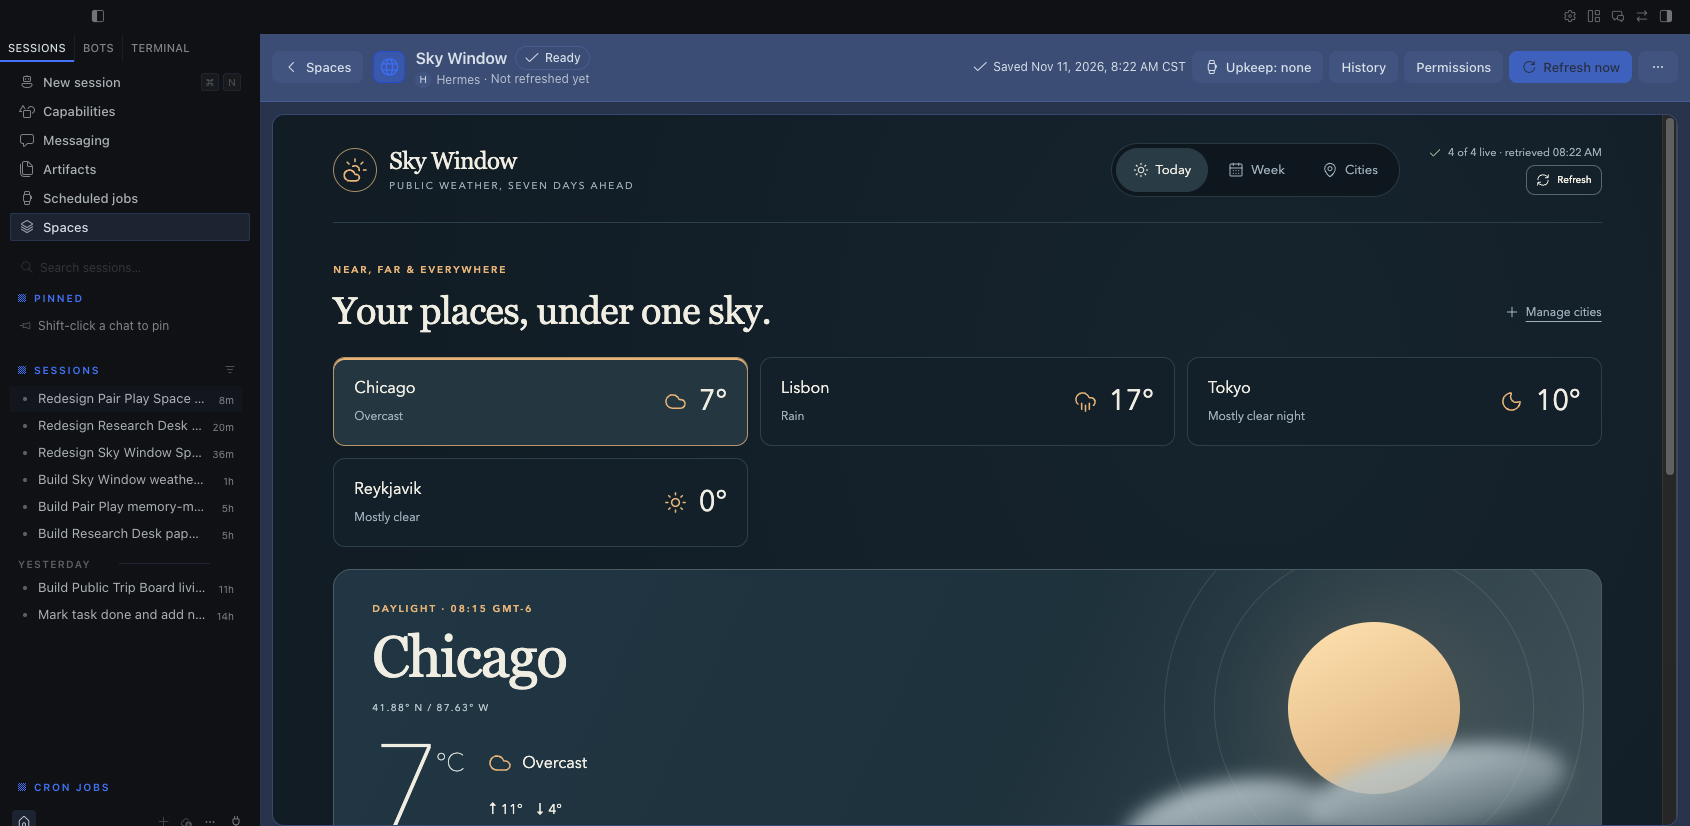
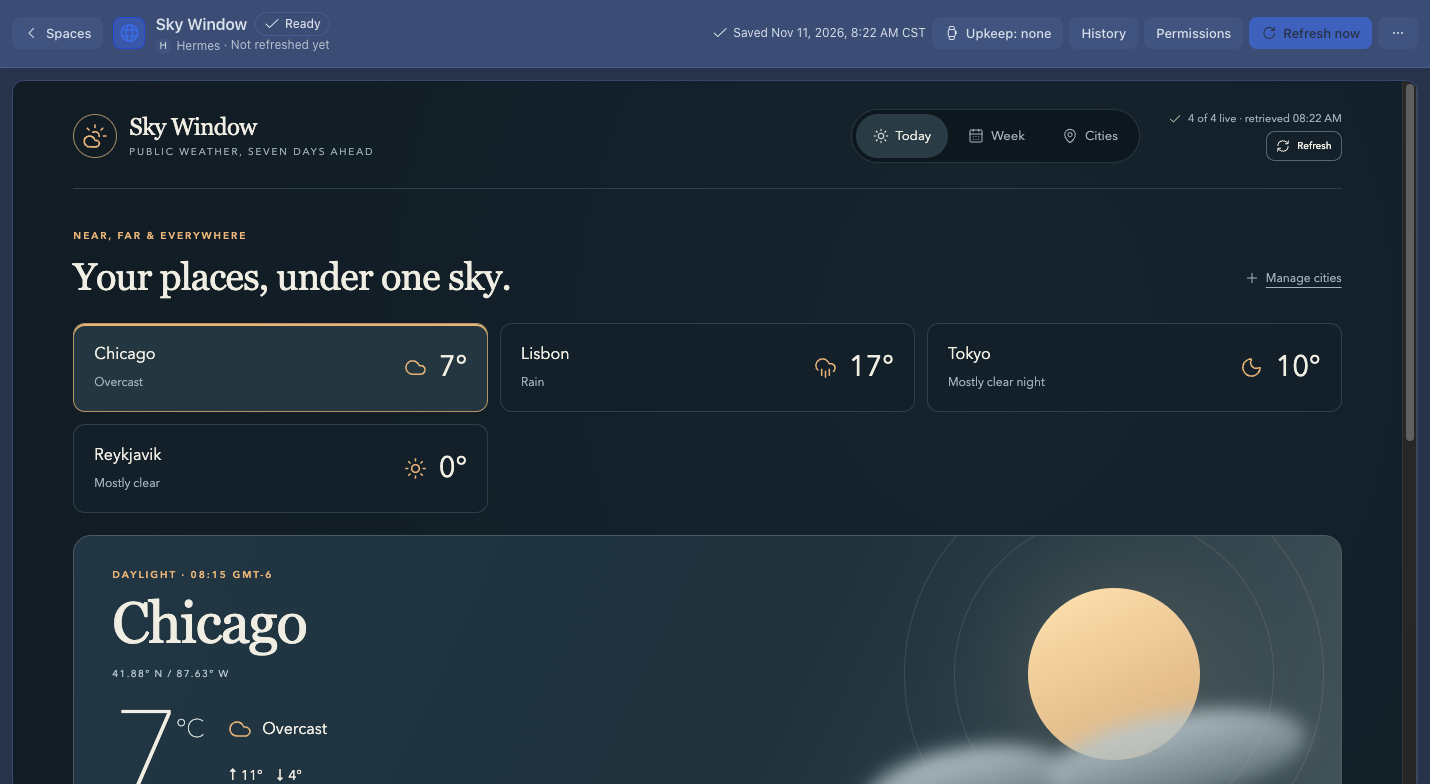
docs(premium-pass): attempt 4 complete — three Spaces regenerated on gpt-6-astra, independent live functional verification, captures and manifest

diff --git a/docs/design/premium-pass/regeneration/astra-run/drivers/regen.py b/docs/design/premium-pass/regeneration/astra-run/drivers/regen.py
@@ -1,0 +1,76 @@
+"""Submit one exact prompt via a NEW ordinary Desktop chat session (native input), record route + before store.
+Usage: regen.py submit N   -> prints session id
+       regen.py collect N SESSION -> writes trace/after/route files (non-blocking snapshot)"""
+import sys, json, sqlite3, time, hashlib
+from pathlib import Path
+sys.path.insert(0, str(Path(__file__).parent))
+import ui
+from cdp import evaluate
+
+ROOT = Path('/Volumes/Expansion/Development/Projects/living-spaces')
+HOME = Path('/Volumes/Expansion/Development/Build/living-spaces-r1/home')
+OUT = ROOT / 'docs/design/premium-pass/regeneration/astra-run'
+OUT.mkdir(parents=True, exist_ok=True)
+ITEMS = json.loads((ROOT / 'docs/design/premium-pass/regeneration-prompts.json').read_text())['prompts']
+SLUGS = ['sky-window', 'research-desk', 'pair-play']
+
+
+def store(slug):
+    c = sqlite3.connect(f'file:{HOME}/plugin-data/living-spaces/spaces.db?mode=ro', uri=True)
+    c.row_factory = sqlite3.Row
+    out = {}
+    for t in ['spaces', 'records', 'revisions', 'grants']:
+        col = 'id' if t == 'spaces' else 'space'
+        out[t] = [dict(r) for r in c.execute(f'select * from {t} where {col}=?', (slug,))]
+    return out
+
+
+def state():
+    c = sqlite3.connect(f'file:{HOME}/state.db?mode=ro', uri=True)
+    c.row_factory = sqlite3.Row
+    return c
+
+
+def submit(n):
+    slug, prompt = SLUGS[n], ITEMS[n]['prompt']
+    (OUT / f'{slug}-before.json').write_text(json.dumps(store(slug), indent=2, default=str))
+    xy = evaluate("""(()=>{const b=[...document.querySelectorAll('button,a,[role=button]')].find(b=>/^New session/.test((b.innerText||'').trim()));const r=b.getBoundingClientRect();return [r.x+r.width/2,r.y+r.height/2]})()""")
+    ui.click(*xy)
+    time.sleep(2.5)
+    picker = evaluate("""[...document.querySelectorAll('button')].map(b=>(b.innerText||'').trim()).filter(s=>/astra|sonnet|gpt|claude|opus/i.test(s))""")
+    box = evaluate("""(()=>{const e=document.querySelector('[contenteditable=true][aria-label=Message]');e.focus();const r=e.getBoundingClientRect();return [r.x+20,r.y+r.height/2]})()""")
+    ui.click(*box)
+    t0 = time.time()
+    ui.page(lambda s: s.call('Input.insertText', text=prompt))
+    time.sleep(.6)
+    ui.key('Enter')
+    sid = None
+    for _ in range(40):
+        time.sleep(1.5)
+        r = state().execute("select session_id from messages where role='user' and content=? and timestamp>=? order by timestamp desc limit 1", (prompt, t0 - 1)).fetchone()
+        if r:
+            sid = r[0]; break
+    rec = {'space': slug, 'prompt': prompt, 'session': sid, 'submitted_at': t0, 'ui_picker_label_before_send': picker,
+           'route': 'new ordinary Desktop chat session, native CDP click/insertText/Enter on composer'}
+    (OUT / f'{slug}-submission.json').write_text(json.dumps(rec, indent=2))
+    print(json.dumps(rec, indent=2))
+
+
+def collect(n, sid):
+    slug = SLUGS[n]
+    sub = json.loads((OUT / f'{slug}-submission.json').read_text())
+    c = state()
+    s = dict(c.execute('select id,source,model,model_config,billing_provider,billing_base_url,billing_mode,started_at,ended_at,end_reason,message_count,tool_call_count,input_tokens,output_tokens,reasoning_tokens,title from sessions where id=?', (sid,)).fetchone())
+    trace = [dict(r) for r in c.execute('select role,content,tool_calls,tool_call_id,tool_name,timestamp,finish_reason from messages where session_id=? order by timestamp', (sid,))]
+    (OUT / f'{slug}-trace.json').write_text(json.dumps(trace, indent=2))
+    (OUT / f'{slug}-route.json').write_text(json.dumps({'requested': {'model': 'gpt-6-astra', 'provider': 'openai-codex', 'service_tier': 'priority'}, 'observed_session_row': s, 'ui_picker_label_before_send': sub['ui_picker_label_before_send']}, indent=2))
+    (OUT / f'{slug}-after.json').write_text(json.dumps(store(slug), indent=2, default=str))
+    last = trace[-1] if trace else {}
+    tools = [m['tool_name'] for m in trace if m['tool_name']]
+    print(json.dumps({'model': s['model'], 'provider': s['billing_provider'], 'msgs': len(trace), 'tools': tools[-12:], 'ntools': len(tools),
+                      'last_role': last.get('role'), 'finish': last.get('finish_reason'), 'last': (last.get('content') or '')[:600]}, indent=1))
+
+
+if __name__ == '__main__':
+    if sys.argv[1] == 'submit': submit(int(sys.argv[2]))
+    else: collect(int(sys.argv[2]), sys.argv[3])

diff --git a/docs/design/premium-pass/regeneration/astra-run/drivers/cap2.py b/docs/design/premium-pass/regeneration/astra-run/drivers/cap2.py
@@ -1,0 +1,33 @@
+import sys, time, json, base64
+sys.path.insert(0,'/Volumes/Expansion/Development/Projects/living-spaces/harness'); sys.path.insert(0,'.')
+import ui
+from cdp import evaluate
+from guest_realm import guest
+OUT='/Volumes/Expansion/Development/Projects/living-spaces/docs/design/premium-pass/regeneration/astra-run/shots/'
+import os; os.makedirs(OUT,exist_ok=True)
+def go(slug): evaluate(f"location.hash='#/spaces?space={slug}'"); time.sleep(7)
+def phone(on):
+    async def f(s):
+        if on: await s.call('Emulation.setDeviceMetricsOverride',width=390,height=844,deviceScaleFactor=2,mobile=True)
+        else: await s.call('Emulation.clearDeviceMetricsOverride')
+    ui.page(f); time.sleep(3)
+def shot(name, full=False):
+    W,H=evaluate('[innerWidth,innerHeight]')
+    async def f(s):
+        clip={'x':0,'y':0,'width':W,'height':H-(0 if W<600 else 32),'scale':1}
+        r=await s.call('Page.captureScreenshot',format='png',clip=clip)
+        open(OUT+name,'wb').write(base64.b64decode(r['data']))
+    ui.page(f); return name
+def buttons(): return guest("[...document.querySelectorAll('button,[role=tab],[role=button],a')].map(b=>(b.getAttribute('aria-label')||b.innerText||'').trim().slice(0,40)).filter(Boolean)")
+def click(label):
+    return guest(f"(()=>{{const L={json.dumps(label)};const b=[...document.querySelectorAll('button,[role=tab],[role=button],a')].find(b=>((b.getAttribute('aria-label')||b.innerText||'').trim()).startsWith(L));if(!b)return 'missing';b.click();return 'clicked'}})()")
+def text(n=1500): return guest(f"document.body.innerText.replace(/\\s+/g,' ').slice(0,{n})")
+if __name__=='__main__':
+    c=sys.argv[1]
+    if c=='go': go(sys.argv[2])
+    elif c=='buttons': print(json.dumps(buttons()))
+    elif c=='click': print(click(sys.argv[2])); time.sleep(2)
+    elif c=='shot': print(shot(sys.argv[2]))
+    elif c=='phone': phone(sys.argv[2]=='1')
+    elif c=='text': print(json.dumps(text(int(sys.argv[2]) if len(sys.argv)>2 else 1500)))
+    elif c=='g': print(json.dumps(guest(sys.argv[2]))[:3000])

diff --git a/docs/design/premium-pass/regeneration/astra-run/drivers/ui.py b/docs/design/premium-pass/regeneration/astra-run/drivers/ui.py
@@ -1,0 +1,47 @@
+"""Native-input UI helper for the isolated Desktop (CDP 9341). Usage:
+  ui.py click X Y | ui.py shot PATH | ui.py eval JS | ui.py key KEY | ui.py type TEXT"""
+import asyncio, sys, json, base64
+sys.path.insert(0, '/Volumes/Expansion/Development/Projects/living-spaces/harness')
+from cdp import evaluate, page_ws, Session
+import websockets
+
+
+def page(fn):
+    async def go():
+        async with websockets.connect(page_ws(), max_size=64 << 20) as ws:
+            return await fn(Session(ws))
+    return asyncio.run(go())
+
+
+def click(x, y):
+    async def f(s):
+        await s.call('Input.dispatchMouseEvent', type='mouseMoved', x=x, y=y)
+        for k in ('mousePressed', 'mouseReleased'):
+            await s.call('Input.dispatchMouseEvent', type=k, x=x, y=y, button='left', clickCount=1)
+    page(f)
+
+
+def key(k):
+    codes = {'Escape': 27, 'Enter': 13}
+    async def f(s):
+        for t in ('keyDown', 'keyUp'):
+            await s.call('Input.dispatchKeyEvent', type=t, key=k, code=k, windowsVirtualKeyCode=codes.get(k, 0))
+    page(f)
+
+
+def shot(path):
+    async def f(s):
+        r = await s.call('Page.captureScreenshot', format='png')
+        open(path, 'wb').write(base64.b64decode(r['data']))
+    page(f)
+    print(path)
+
+
+if __name__ == '__main__':
+    c = sys.argv[1]
+    if c == 'click': click(float(sys.argv[2]), float(sys.argv[3]))
+    elif c == 'shot': shot(sys.argv[2])
+    elif c == 'key': key(sys.argv[2])
+    elif c == 'type':
+        page(lambda s: s.call('Input.insertText', text=sys.argv[2]))
+    elif c == 'eval': print(json.dumps(evaluate(sys.argv[2]), indent=1))

diff --git a/docs/design/premium-pass/regeneration/astra-run/drivers/typeidx.py b/docs/design/premium-pass/regeneration/astra-run/drivers/typeidx.py
@@ -1,0 +1,11 @@
+import sys,time,json
+sys.path.insert(0,'/Volumes/Expansion/Development/Projects/living-spaces/harness'); sys.path.insert(0,'.')
+import ui
+from guest_realm import guest
+from cdp import evaluate
+fx,fy=evaluate("(()=>{const r=document.querySelector('iframe').getBoundingClientRect();return [r.x,r.y]})()")
+sel,val=sys.argv[1],sys.argv[2]
+r=guest(f"(()=>{{const e=document.querySelectorAll({json.dumps(sel)})[{int(sys.argv[3]) if len(sys.argv)>3 else 0}];e.scrollIntoView({{block:'center'}});const b=e.getBoundingClientRect();return [b.x+Math.min(40,b.width/2),b.y+Math.min(20,b.height/2)]}})()")['value']
+ui.click(fx+r[0],fy+r[1]); time.sleep(.4)
+ui.page(lambda s:s.call('Input.insertText',text=val)); time.sleep(1.2)
+print(guest("[document.activeElement.tagName, (document.activeElement.value ?? document.activeElement.innerText).slice(0,80)]")['value'])

diff --git a/docs/design/premium-pass/regeneration/astra-run/drivers/phone.py b/docs/design/premium-pass/regeneration/astra-run/drivers/phone.py
@@ -1,0 +1,14 @@
+import sys,base64,asyncio,json
+sys.path.insert(0,'/Volumes/Expansion/Development/Projects/living-spaces/harness'); sys.path.insert(0,'.')
+import ui
+OUT='/Volumes/Expansion/Development/Projects/living-spaces/docs/design/premium-pass/regeneration/astra-run/shots/'
+name=sys.argv[1]; w=int(sys.argv[2]) if len(sys.argv)>2 else 390
+async def f(s):
+    await s.call('Emulation.setDeviceMetricsOverride',width=w,height=844,deviceScaleFactor=2,mobile=True)
+    await asyncio.sleep(4)
+    r=await s.call('Runtime.evaluate',expression='[innerWidth, document.documentElement.scrollWidth]',returnByValue=True)
+    print(r['result']['value'])
+    r=await s.call('Page.captureScreenshot',format='png')
+    open(OUT+name,'wb').write(base64.b64decode(r['data']))
+    await s.call('Emulation.clearDeviceMetricsOverride')
+ui.page(f); print(name)

diff --git a/docs/design/premium-pass/regeneration/astra-run/drivers/typein.py b/docs/design/premium-pass/regeneration/astra-run/drivers/typein.py
@@ -1,0 +1,12 @@
+import sys,time,json
+sys.path.insert(0,'/Volumes/Expansion/Development/Projects/living-spaces/harness'); sys.path.insert(0,'.')
+import ui
+from guest_realm import guest
+from cdp import evaluate
+fx,fy=evaluate("(()=>{const r=document.querySelector('iframe').getBoundingClientRect();return [r.x,r.y]})()")
+def put(ph,val):
+    r=guest(f"(()=>{{const e=[...document.querySelectorAll('input')].find(e=>e.placeholder=={json.dumps(ph)});const b=e.getBoundingClientRect();return [b.x+b.width/2,b.y+b.height/2]}})()")['value']
+    ui.click(fx+r[0],fy+r[1]); time.sleep(.4)
+    ui.page(lambda s:s.call('Input.insertText',text=val)); time.sleep(.4)
+    print(ph, guest(f"document.activeElement.value")['value'])
+for a,b in zip(sys.argv[1::2],sys.argv[2::2]): put(a,b)

diff --git a/docs/design/premium-pass/regeneration/astra-run/drivers/clipshot.py b/docs/design/premium-pass/regeneration/astra-run/drivers/clipshot.py
@@ -1,0 +1,9 @@
+import sys,base64
+sys.path.insert(0,'/Volumes/Expansion/Development/Build/living-spaces-r1/run/regen-astra4')
+import ui
+from cdp import evaluate
+w,h=evaluate('[innerWidth,innerHeight]')
+async def f(s):
+    r=await s.call('Page.captureScreenshot',format='png',clip={'x':0,'y':0,'width':w,'height':h-32,'scale':1})
+    open(sys.argv[1],'wb').write(base64.b64decode(r['data']))
+ui.page(f); print(w,h-32)

diff --git a/docs/design/premium-pass/regeneration/astra-run/drivers/rec.py b/docs/design/premium-pass/regeneration/astra-run/drivers/rec.py
@@ -1,0 +1,5 @@
+import sqlite3,sys,json
+c=sqlite3.connect('/Volumes/Expansion/Development/Build/living-spaces-r1/home/plugin-data/living-spaces/spaces.db',timeout=10)
+c.execute('pragma query_only=1')
+for r in c.execute("select collection,id,rev,data from records where space=? order by collection,id",(sys.argv[1],)):
+    d=r[3]; print(r[0],r[1],r[2],(d[:int(sys.argv[2]) if len(sys.argv)>2 else 200]))

diff --git a/docs/design/premium-pass/regeneration/astra-run/README.md b/docs/design/premium-pass/regeneration/astra-run/README.md
@@ -1,0 +1,55 @@
+# Attempt 4: all three Spaces regenerated through ordinary chat on gpt-6-astra
+
+On 2026-11-11 between 07:28 and 08:14 CT, each corrected prompt from `../../regeneration-prompts.json` was sent exactly once. Each went into a **new ordinary Hermes Desktop chat session** in the isolated home (`/Volumes/Expansion/Development/Build/living-spaces-r1/home`, CDP 9341). Input was native CDP click, `Input.insertText` and Enter on the composer. No HTML was pasted, no source was injected and no showcase was substituted. From 08:19 to 08:31 CT I then exercised every rebuilt Space independently in the same real host.
+
+Attempts 2 and 3 (`../README.md`, `../astra/README.md`) were blocked by a Sonnet rate limit and then by a missing Codex credential. Ife chose to copy the Codex login into the isolated home at 07:25 (t_294ce114 comments from Bjorn and W11). No other credentials, config or gateway changes were made in this attempt.
+
+## Identity
+
+| | |
+|---|---|
+| Candidate source | `72b626aba71067166e737feb95e9585df5262816` (forge/r1-contracts), installed by symlink |
[1 lines of base64/hex data omitted]
+| Requested route | `gpt-6-astra` / `openai-codex`, `agent.service_tier=priority` |
+| Observed route (per session row) | model `gpt-6-astra`, billing_provider `openai-codex`. The picker read "GPT-6-astra · Fast" before every send. The tier the provider actually applied is **not** independently observed. |
+
+## Results
+
+| Space | Session | Rev before → after | Msgs / tools | Tokens in / out | Agent's chosen direction |
+|---|---|---|---|---|---|
+| Sky Window | `local-8dfe2468…` | 4 → **11** | 155 / 83 | 98,149 / 21,741 | "quiet observatory": ink-blue, ivory type, sky illustration, 7-day ribbon |
+| Research Desk | `local-a17cd73f…` | 8 → **18** | 128 / 72 | 79,953 / 17,937 | warm editorial: paper tones, serif, rust accents, reading pane |
+| Pair Play | `local-46ed47a0…` | 5 → **10** | 120 / 67 | 79,744 / 20,807 | "orchard": cream, forest-green patterned cards, serif |
+
+Every trace (`*-trace.json`) begins with the exact prompt and shows `skill_view` returning `living-spaces:build-space` (with its "Design the canvas" section) and `living-space-sandbox-rules`. Every run ends with `finish=stop` and a final reply that includes the `::living-space` directive. The intermediate revisions are the agent's own write/verify/repair iterations within one turn.
+
+## Independent functional verification (real host, live data)
+
+The full checks are in `*-functional.json`. The screenshots in `shots/` are cropped to the Space header and canvas, with the Hermes session sidebar and account footer excluded. Desktop crops are 1430×784, taken from a 1690×858 window. Phone crops are 600×1580, taken at a 390 px viewport at 2× scale.
+
+- **Sky Window: 9/9 pass.** Live Open-Meteo data for all three cities ("3 of 3 live · retrieved 08:19"). City selection, Week view and Refresh (timestamp advanced) work. Favourite toggles persist to the store. Adding Reykjavik stored it and fetched it live ("4 of 4 live"). Removing a city asks for confirmation first. At 390 px the page has no horizontal overflow.
+- **Research Desk: 10/10 pass.** Overview, library search ("attention" → 2 of 47), reading room, notes save, and status/priority save all persist to the store. The queue shows 44 waiting, and priority review works. In-Space live arXiv refresh succeeded at 08:26 (source as of Nov 10 12:59, no new papers), and all 47 records were kept. The phone layout is clean.
+- **Pair Play: 8/8 pass.** The unfinished round resumes. A mismatch counts a turn and persists, with a deliberate "Continue →" step. I played the full round to completion: 8 turns, 6/6. History and personal best update. The phone layout is clean.
+
+**Saved data:**
+- Sky's 3 records and Pair's 2 records are byte-equal before and after regeneration.
+- Research's original 27 records are byte-equal. The regeneration run's own live refresh added 20 public arXiv papers.
+- Grants are unchanged for all three Spaces.
+- I reverted my own test mutations afterwards. Sky and Pair record data again equals the pre-test snapshot; per-record rev counters advanced. The Research test paper was restored to done/high with an empty note.
+
+## Side effects and caveats, stated plainly
+
+- **The agent edited a skill.** During the Research Desk and Pair Play runs, the agent called `skill_manage` and patched the isolated home's `skills/software-development/living-space-sandbox-rules/SKILL.md`, adding remount/prop-sync/incoming-record/min-width lessons. Its sha256 is now `7f9de9f1…125139`. Pair Play therefore loaded the patched version. The build-space skill was not touched. Whether to keep this is a decision for the integration owner.
+- The agents' own verification claims (320 px, 200% zoom, reduced motion, refresh-failure recovery, draft retention during incoming records) are self-reported in their final replies. **I did not independently verify them.** The same goes for screen reader, real touch, the settings editor and offline states.
+- Sky's static checker still warns about network URLs in `vendor/lightweight-charts.mjs` and `weather.js`. Runtime fetches go through `space.net.fetch` and succeeded.
+- Pair Play History shows "643m 59s" for the resumed round, because it measures from the saved round's original start. The value is accurate but reads awkwardly; this is a design-review item.
+- Research status/priority are native `<select>` elements. I tested them by setting the value and dispatching a change event, not through the OS picker.
+- Captures briefly failed because the Desktop window sat on another macOS Space (`visibilityState=hidden`). Raising it with System Events fixed this. No app restart.
+
+## Before/after
+
+Baseline captures are in `../../baseline/` (see `../../baseline-manifest.json`), e.g. `sky-opened.png` vs `shots/sky-desktop-today.png`, `sky-week.png` vs `shots/sky-desktop-week.png`, `research-overview.png` vs `shots/research-desktop-overview.png`, `research-queue.png` vs `shots/research-desktop-queue.png`, `pair-play.png` vs `shots/pair-desktop-resume.png`, `pair-progress.png` vs `shots/pair-desktop-progress.png`. The crop geometry matches (260,34,1430,784).
+
+## Files
+
+`*-submission.json` (prompt, session, picker label), `*-route.json` (requested vs observed session row), `*-trace.json` (full persisted chat), `*-before.json` / `*-after.json` (store rows), `*-functional.json` (independent checks), `shots/`, `drivers/` (exact scripts used), `MANIFEST.json` (sha256 of every file).
